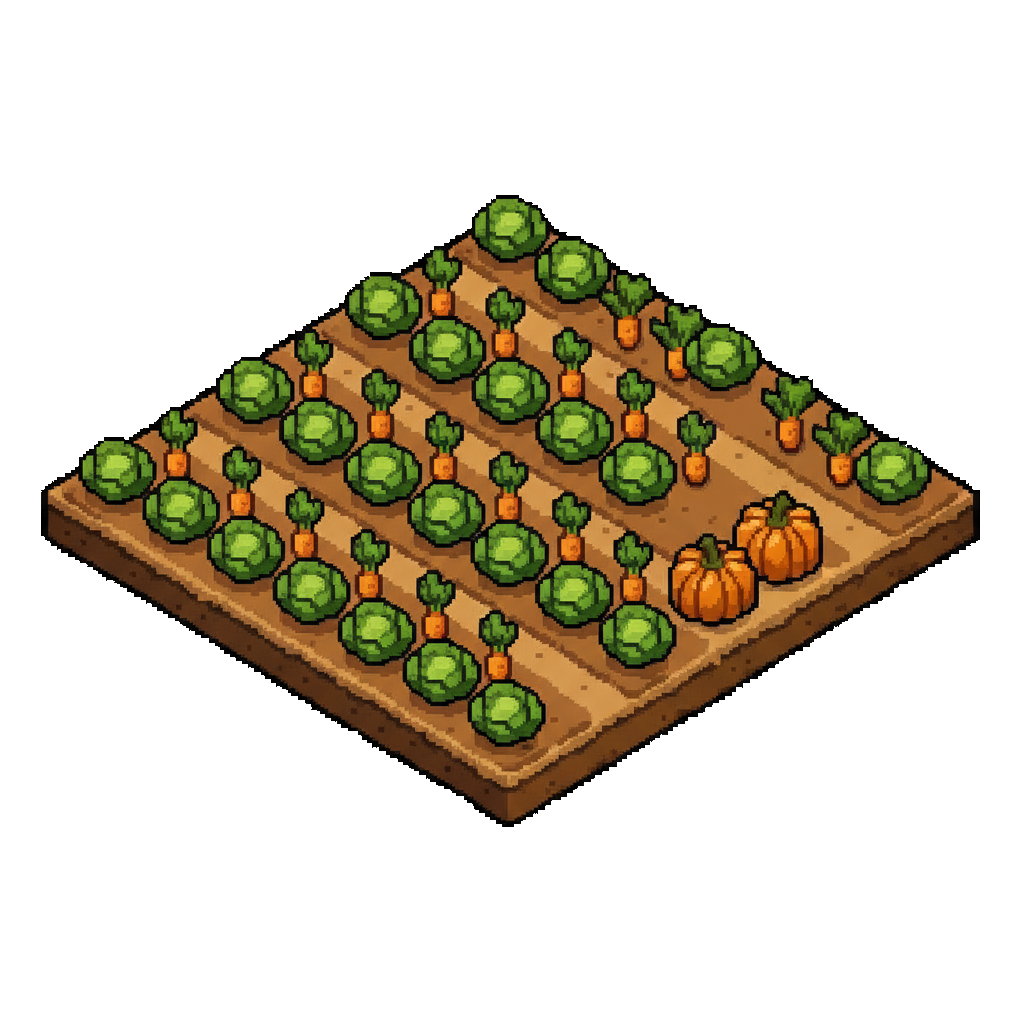
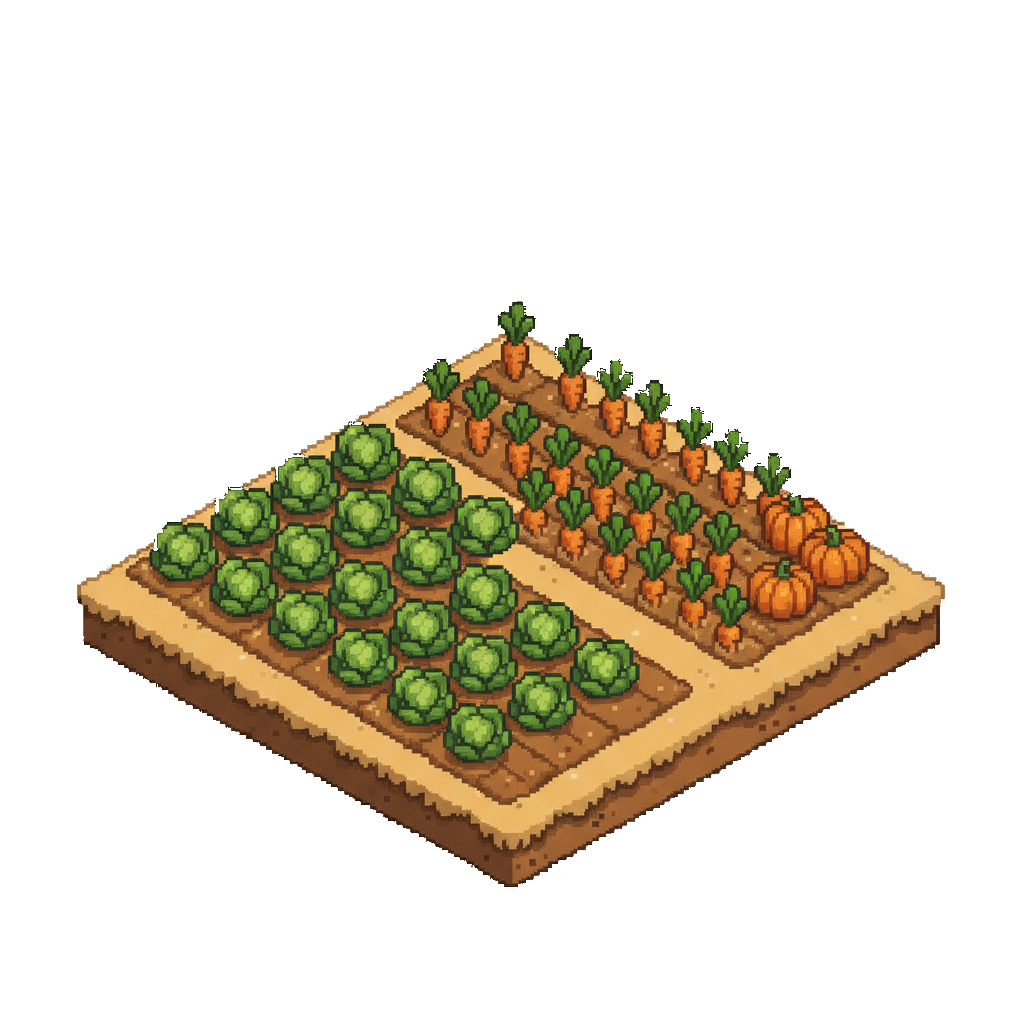
fix(art): regenerate farmField plots at true 2:1 dimetric on their 2x2 footprint
Regenerated wheat + vegetable plot art matching the house projection; BUILDING_ANCHOR_OVERRIDES re-measured 20 (pixel) / 23 (pixel-alt) so the slab corner lands on the footprint's south vertex; technical-spec 3.3/5.4 + architecture.md notes; both city-view baselines regenerated for the new art.

diff --git a/src/render/assetDescriptors.ts b/src/render/assetDescriptors.ts
@@ -867,6 +867,11 @@ export const BUILDING_DESCRIPTORS: Record<string, SpriteDescriptor> =
 // This table uses the de-facto convention sh = tw*0.9 = 86.4 (the 1x1 width)
 // for every key regardless of its real footprint, which reproduces the values
 // below; it is an eyeballed baseline, not a strict geometric solve.
+// Exception: the 2x2 farmField ground plots (art regenerated 2026-10-05) use
+// the geometric 2x2 solve anchorOffsetY = bottomPad * 172.8/1024 (172.8 being
+// the real 2x2 draw height, not 86.4) so the slab corner lands on the
+// footprint's south vertex; under the 86.4 convention they would float ~10px
+// high. Other 2x2 buildings (e.g. townHall) deliberately keep the 86.4 values.
 const BUILDING_ANCHOR_OVERRIDES: Record<string, number> = {
   "building.pixel.granary.1": 11,
   "building.pixel.granary.2": 25,
@@ -929,12 +934,12 @@ const BUILDING_ANCHOR_OVERRIDES: Record<string, number> = {
   "building.pixel.sylvanStables.3": 3,
   "building.pixel.worldrootGrove.1": 6,
   "building.pixel.worldrootGrove.3": 0,
-  "building.pixel.farmField.1": 17,
-  "building.pixel.farmField.2": 17,
-  "building.pixel.farmField.3": 17,
-  "building.pixel-alt.farmField.1": 17,
-  "building.pixel-alt.farmField.2": 17,
-  "building.pixel-alt.farmField.3": 17,
+  "building.pixel.farmField.1": 20,
+  "building.pixel.farmField.2": 20,
+  "building.pixel.farmField.3": 20,
+  "building.pixel-alt.farmField.1": 23,
+  "building.pixel-alt.farmField.2": 23,
+  "building.pixel-alt.farmField.3": 23,
   "building.pixel.townHall.1": 9,
   "building.pixel.townHall.2": 9,
   "building.pixel.townHall.3": 6,

diff --git a/src/render/docs/technical-spec.md b/src/render/docs/technical-spec.md
@@ -645,7 +645,7 @@ interface BuildingDef {
 
 **`BuildingKind`** (36 types, re-exported from `@heroes/contracts`): `townHall`, `house`, `tower`, `mageGuild`, `mine`, `stoneMine`, `ironMine`, `market`, `barracks`, `smithy`, `apartment`, `farmField`, `farmhouse`, `archeryRange`, `granary`, `warehouse`, `bank`, `treasury`, `goldMine`, `woodcutterHut`, `arcaneFont`, `stables`, `huntingLodge`, `eyrie`, `crypt`, `ossuary`, `wraithBarrows`, `spireOfAsh`, `forgeHall`, `gunnersRedoubt`, `golemFoundry`, `deepAnvil`, `groveSanctum`, `warrenLodge`, `sylvanStables`, `worldrootGrove`
 
-`crypt`, `ossuary`, `wraithBarrows`, and `spireOfAsh` are the Ashen Court faction's recruit buildings (2026-10-02, The Ashen Court content wave: ghoul / bone_archer+bone_pikeman / wraith+blood_knight / vampire_lord+lich); `forgeHall`, `gunnersRedoubt`, `golemFoundry`, and `deepAnvil` are the Ironmark Holds faction's recruit buildings (2026-10-02, The Ironmark Holds content wave: dwarf_axeman+shield_bearer / hand_gunner / ironsworn+iron_golem / runesmith+forge_lord); `groveSanctum`, `warrenLodge`, `sylvanStables`, and `worldrootGrove` are the Verdant Wild faction's recruit buildings (2026-10-02, The Verdant Wild content wave: forest_scout+thorn_archer / briar_warden+warbeast / elk_rider+stag_knight / treant_elder). `huntingLodge` and `eyrie` are the prior roster kinds (2026-09-30 faction-roster expansion: warhound; giant_eagle/eagle_prince). `treasury` was the newest **building** kind (2026-10-01). `stables`, `huntingLodge`, and `eyrie` have **no dedicated sprite asset** in the classic/FLUX set — un-sprited kinds draw through the procedural per-style fallback path (the twelve 2026-10-02 faction kinds ship `pixel.*.1` sprites from their waves, with L2/L3 wired 2026-10-03 for every kind except crypt-2/gunnersRedoubt-2/worldrootGrove-2 — the three L1-only kinds skip L2 by registry and ship L3 art per the gunnersRedoubt-3/worldrootGrove-3 precedent; note pixel styles have **no procedural fallback** — `STYLE_DRAW_FNS` has no pixel entry, so that wiring was also the fix for the blank-tile bug where upgraded pixel-styled faction buildings drew nothing). `farmField`'s art was swapped to Gemini pixel-art plots (2026-10-02): the two `classic.farmField` sprite keys are unwired and `pixel.farmField.1/2/3` + `pixel-alt.farmField.1/2/3` are wired instead (L2/L3 alias the L1 art; `pixel-alt` resolves only through an explicit `style` carrier — the style fall-through never picks it). Player-built farms roll `randomFarmFieldStyle()` (50/50) into the persisted `BuildingDef.style`; legacy/starter/design-box `"classic"` farm defs re-style deterministically at scene emission via `farmFieldStyleAt(seed, gx, gy)`. The old `building-classic-farmField-*.png` files remain on disk but are unreferenced.
+`crypt`, `ossuary`, `wraithBarrows`, and `spireOfAsh` are the Ashen Court faction's recruit buildings (2026-10-02, The Ashen Court content wave: ghoul / bone_archer+bone_pikeman / wraith+blood_knight / vampire_lord+lich); `forgeHall`, `gunnersRedoubt`, `golemFoundry`, and `deepAnvil` are the Ironmark Holds faction's recruit buildings (2026-10-02, The Ironmark Holds content wave: dwarf_axeman+shield_bearer / hand_gunner / ironsworn+iron_golem / runesmith+forge_lord); `groveSanctum`, `warrenLodge`, `sylvanStables`, and `worldrootGrove` are the Verdant Wild faction's recruit buildings (2026-10-02, The Verdant Wild content wave: forest_scout+thorn_archer / briar_warden+warbeast / elk_rider+stag_knight / treant_elder). `huntingLodge` and `eyrie` are the prior roster kinds (2026-09-30 faction-roster expansion: warhound; giant_eagle/eagle_prince). `treasury` was the newest **building** kind (2026-10-01). `stables`, `huntingLodge`, and `eyrie` have **no dedicated sprite asset** in the classic/FLUX set — un-sprited kinds draw through the procedural per-style fallback path (the twelve 2026-10-02 faction kinds ship `pixel.*.1` sprites from their waves, with L2/L3 wired 2026-10-03 for every kind except crypt-2/gunnersRedoubt-2/worldrootGrove-2 — the three L1-only kinds skip L2 by registry and ship L3 art per the gunnersRedoubt-3/worldrootGrove-3 precedent; note pixel styles have **no procedural fallback** — `STYLE_DRAW_FNS` has no pixel entry, so that wiring was also the fix for the blank-tile bug where upgraded pixel-styled faction buildings drew nothing). `farmField`'s art was swapped to Gemini pixel-art plots (2026-10-02): the two `classic.farmField` sprite keys are unwired and `pixel.farmField.1/2/3` + `pixel-alt.farmField.1/2/3` are wired instead (L2/L3 alias the L1 art; `pixel-alt` resolves only through an explicit `style` carrier — the style fall-through never picks it). The plot art was regenerated 2026-10-05 (the original base was a ~1.4:1 perspective rhombus with non-isometric crop rows; the new plots match the house/townHall projection). Player-built farms roll `randomFarmFieldStyle()` (50/50) into the persisted `BuildingDef.style`; legacy/starter/design-box `"classic"` farm defs re-style deterministically at scene emission via `farmFieldStyleAt(seed, gx, gy)`. The old `building-classic-farmField-*.png` files remain on disk but are unreferenced.
 
 **Footprints matter to placement, not just art.** `warehouse` is **2×2** (2026-10-01) — four blocked grid cells, which is why its placement cost doubled; `archeryRange` is 1×2 and `townHall`/`apartment`/`farmField` are 2×2. The registry's legacy 1.5×1.5 L2/L3 *visual* override deliberately excludes every 2×2 kind: `coversCell` uses `gx < b.gx + w`, so a 1.5 footprint blocks only 2 cells, and applying the override to `warehouse` would free two cells on upgrade and break cell exclusivity. `src/screens/settlements/cityView/footprint.ts` reports the **blocked** (ceiled) footprint in palette tooltips, palette labels, and the building popup so the number the player sees matches what the placer enforces.
 
@@ -867,7 +867,7 @@ sequenceDiagram
 
 Wiring note: these files are **not** auto-registered — each key is wired by hand in `assetDescriptors.ts`'s `BUILDING_SPRITES` map. Currently wired: `pixel.granary.1/2/3`, `pixel.smithy.2`, `pixel.bank.1/2/3`, `pixel.treasury.1/2/3`, `pixel.warehouse.1/2/3`, `pixel.goldMine.1/2/3`, `pixel.woodcutterHut.1/2` (note: `.3` is a duplicate import of `.2`), `pixel.stoneMine.1/2/3`, `pixel.ironMine.1/2/3`, `pixel.crypt.1/.3`, `pixel.ossuary.1/2/3`, `pixel.wraithBarrows.1/2/3`, `pixel.spireOfAsh.1/2/3` (the four Ashen Court kinds — L2/L3 wired 2026-10-03; crypt-2 deliberately unwired, the L1-only building ships L3 art per the gunnersRedoubt-3/worldrootGrove-3 precedent, crypt-3 from a new generation with prompt `building-crypt-3.txt`), `pixel.forgeHall.1/2/3`, `pixel.gunnersRedoubt.1/.3`, `pixel.golemFoundry.1/2/3`, `pixel.deepAnvil.1/2/3` (the four Ironmark kinds — L2/L3 wired 2026-10-03; gunnersRedoubt-2 unwired, L1-only by registry), `pixel.groveSanctum.1/2/3`, `pixel.warrenLodge.1/2/3`, `pixel.sylvanStables.1/2/3`, `pixel.worldrootGrove.1/.3` (the four Verdant kinds — L2/L3 wired 2026-10-03; worldrootGrove-2 deliberately absent), `pixel.farmField.1/2/3` (2026-10-02 farm swap; L2/L3 alias the L1 art), `pixel-alt.farmField.1/2/3` (the same swap's alternate plot — reachable only via an explicit `def.style` carrier, deliberately kept out of `styleResolver`'s fall-through list), `pixel.underConstruction.1/2/3`. The two `classic.farmField` keys were removed by the same swap (the old PNGs stay on disk, unreferenced). The woodcutter-hut `.3` duplication, the `crypt-2`/`gunnersRedoubt-2`/`worldrootGrove-2` unwired-by-policy keys (L1-only buildings), and the fact that `stables`/`huntingLodge`/`eyrie` have no `pixel.*` art are the known gaps.
 
-**Canvas size in the `anchorOffsetY` formula.** Every `building-pixel-*` asset is authored on a **1024×1024** canvas — the 128px figure only applies to the older classic/FLUX `building-{style}-{kind}-{level}.png` set. The `BUILDING_ANCHOR_OVERRIDES` formula comment in `assetDescriptors.ts` was corrected accordingly: the divisor must be the PNG's *actual* canvas height (`dh`), not a nominal 128, because `sh/dh` is ~8× smaller for a 1024 asset (a 79-row bottom pad on `warehouse-1` is 7px, not 53). Measured bottom-pad offsets for the newest sprites: warehouse 7/8/9, `bank.2` = 6, `bank.3` = 6, treasury 5/4/4, crypt 11 (133 rows), ossuary 11 (131), wraithBarrows 11 (131), spireOfAsh 7 (84), farmField 17 (all six keys — 199 transparent bottom rows on `pixel`, 197 on `pixel-alt`); and the 2026-10-03 faction phase-C wave: forgeHall 8/8, golemFoundry 8/8, deepAnvil 2/2, gunnersRedoubt-3 11; ossuary 11/8, wraithBarrows 11/11, spireOfAsh 7/6, crypt-3 12 (137 rows); groveSanctum 8/6, warrenLodge 7/4, sylvanStables 10/3, worldrootGrove-3 0 (art touches the canvas bottom). Do not assume the 128px figure applies to any `pixel.*` asset.
+**Canvas size in the `anchorOffsetY` formula.** Every `building-pixel-*` asset is authored on a **1024×1024** canvas — the 128px figure only applies to the older classic/FLUX `building-{style}-{kind}-{level}.png` set. The `BUILDING_ANCHOR_OVERRIDES` formula comment in `assetDescriptors.ts` was corrected accordingly: the divisor must be the PNG's *actual* canvas height (`dh`), not a nominal 128, because `sh/dh` is ~8× smaller for a 1024 asset (a 79-row bottom pad on `warehouse-1` is 7px, not 53). Measured bottom-pad offsets for the newest sprites: warehouse 7/8/9, `bank.2` = 6, `bank.3` = 6, treasury 5/4/4, crypt 11 (133 rows), ossuary 11 (131), wraithBarrows 11 (131), spireOfAsh 7 (84), farmField 20/23 (all six keys; art regenerated 2026-10-05 — 121 transparent bottom rows on `pixel` → offset 20, 137 on `pixel-alt` → offset 23, geometric 2x2 solve); and the 2026-10-03 faction phase-C wave: forgeHall 8/8, golemFoundry 8/8, deepAnvil 2/2, gunnersRedoubt-3 11; ossuary 11/8, wraithBarrows 11/11, spireOfAsh 7/6, crypt-3 12 (137 rows); groveSanctum 8/6, warrenLodge 7/4, sylvanStables 10/3, worldrootGrove-3 0 (art touches the canvas bottom). Do not assume the 128px figure applies to any `pixel.*` asset.
 
 ---
 

diff --git a/docs/architecture.md b/docs/architecture.md
@@ -504,7 +504,7 @@ Test inventory: extended `test/helpers/unitIds.ts` (23 ids), `test/engine/factio
 | Module | Purpose |
 |---|---|
 | `packages/engine/src/styleResolver.ts` | `BUILDING_SPRITE_KEYS`: the two `classic.farmField` keys removed, `pixel.farmField.1/2/3` added (`pixel-alt` deliberately absent, so `pickStyleForBuilding`'s fall-through never picks it). New exports: `randomFarmFieldStyle()` — 50/50 `Math.random` pick, the player-build roll — and `farmFieldStyleAt(seed, gx, gy)` — FNV-1a hash pick, deterministic per settlement+cell. |
-| `src/render/assetDescriptors.ts` | `BUILDING_SPRITES` gains the six `pixel.farmField.1/2/3` + `pixel-alt.farmField.1/2/3` keys (L2/L3 alias the L1 art — the castle-alt2 tier-1-only precedent); the two `classic.farmField` entries + imports removed. `BUILDING_ANCHOR_OVERRIDES`: measured bottom-pad 17 for all six new keys (199/197 transparent bottom rows × 86.4/1024); the two classic farmField rows (14/5) removed. |
+| `src/render/assetDescriptors.ts` | `BUILDING_SPRITES` gains the six `pixel.farmField.1/2/3` + `pixel-alt.farmField.1/2/3` keys (L2/L3 alias the L1 art — the castle-alt2 tier-1-only precedent); the two `classic.farmField` entries + imports removed. `BUILDING_ANCHOR_OVERRIDES`: measured bottom-pad 17 for all six new keys (199/197 transparent bottom rows × 86.4/1024); the two classic farmField rows (14/5) removed. **2026-10-05:** the farm plot art was regenerated at the correct 2:1 dimetric projection (the original base was a ~1.4:1 perspective rhombus with non-isometric crop rows) and the six keys reseated with the geometric 2x2 solve — 121/137 transparent bottom rows × 172.8/1024 → offsets 20 (`pixel`) / 23 (`pixel-alt`), landing the slab corner on the 2x2 footprint's south vertex. |
 | `src/screens/settlements/cityView/buildingPlacer.ts` | `confirmPlacement()` rolls `randomFarmFieldStyle()` for farmField placements → `def.style` `"pixel"`/`"pixel-alt"`, persisted verbatim through `PlaceBuildings` (the server's `passthroughBuilding` casts rather than projects; `settlement_buildings.style` is TEXT). |
 | `src/render/scene/sceneBuilder/cityScene.ts` | Legacy/starter/design-box farmField defs (`style "classic"`) map at node-emission time via `farmFieldStyleAt(settlementName, b.gx, b.gy)` — existing saves, `init.ts`-seeded starter farms, and City Design Generate farms get the new art with per-farm variety, **without touching `buildStarterLayout`** (its byte-identical seed-free contract and test stay intact). Non-classic farm styles (e.g. `"organic"`) pass through untouched. |
 
